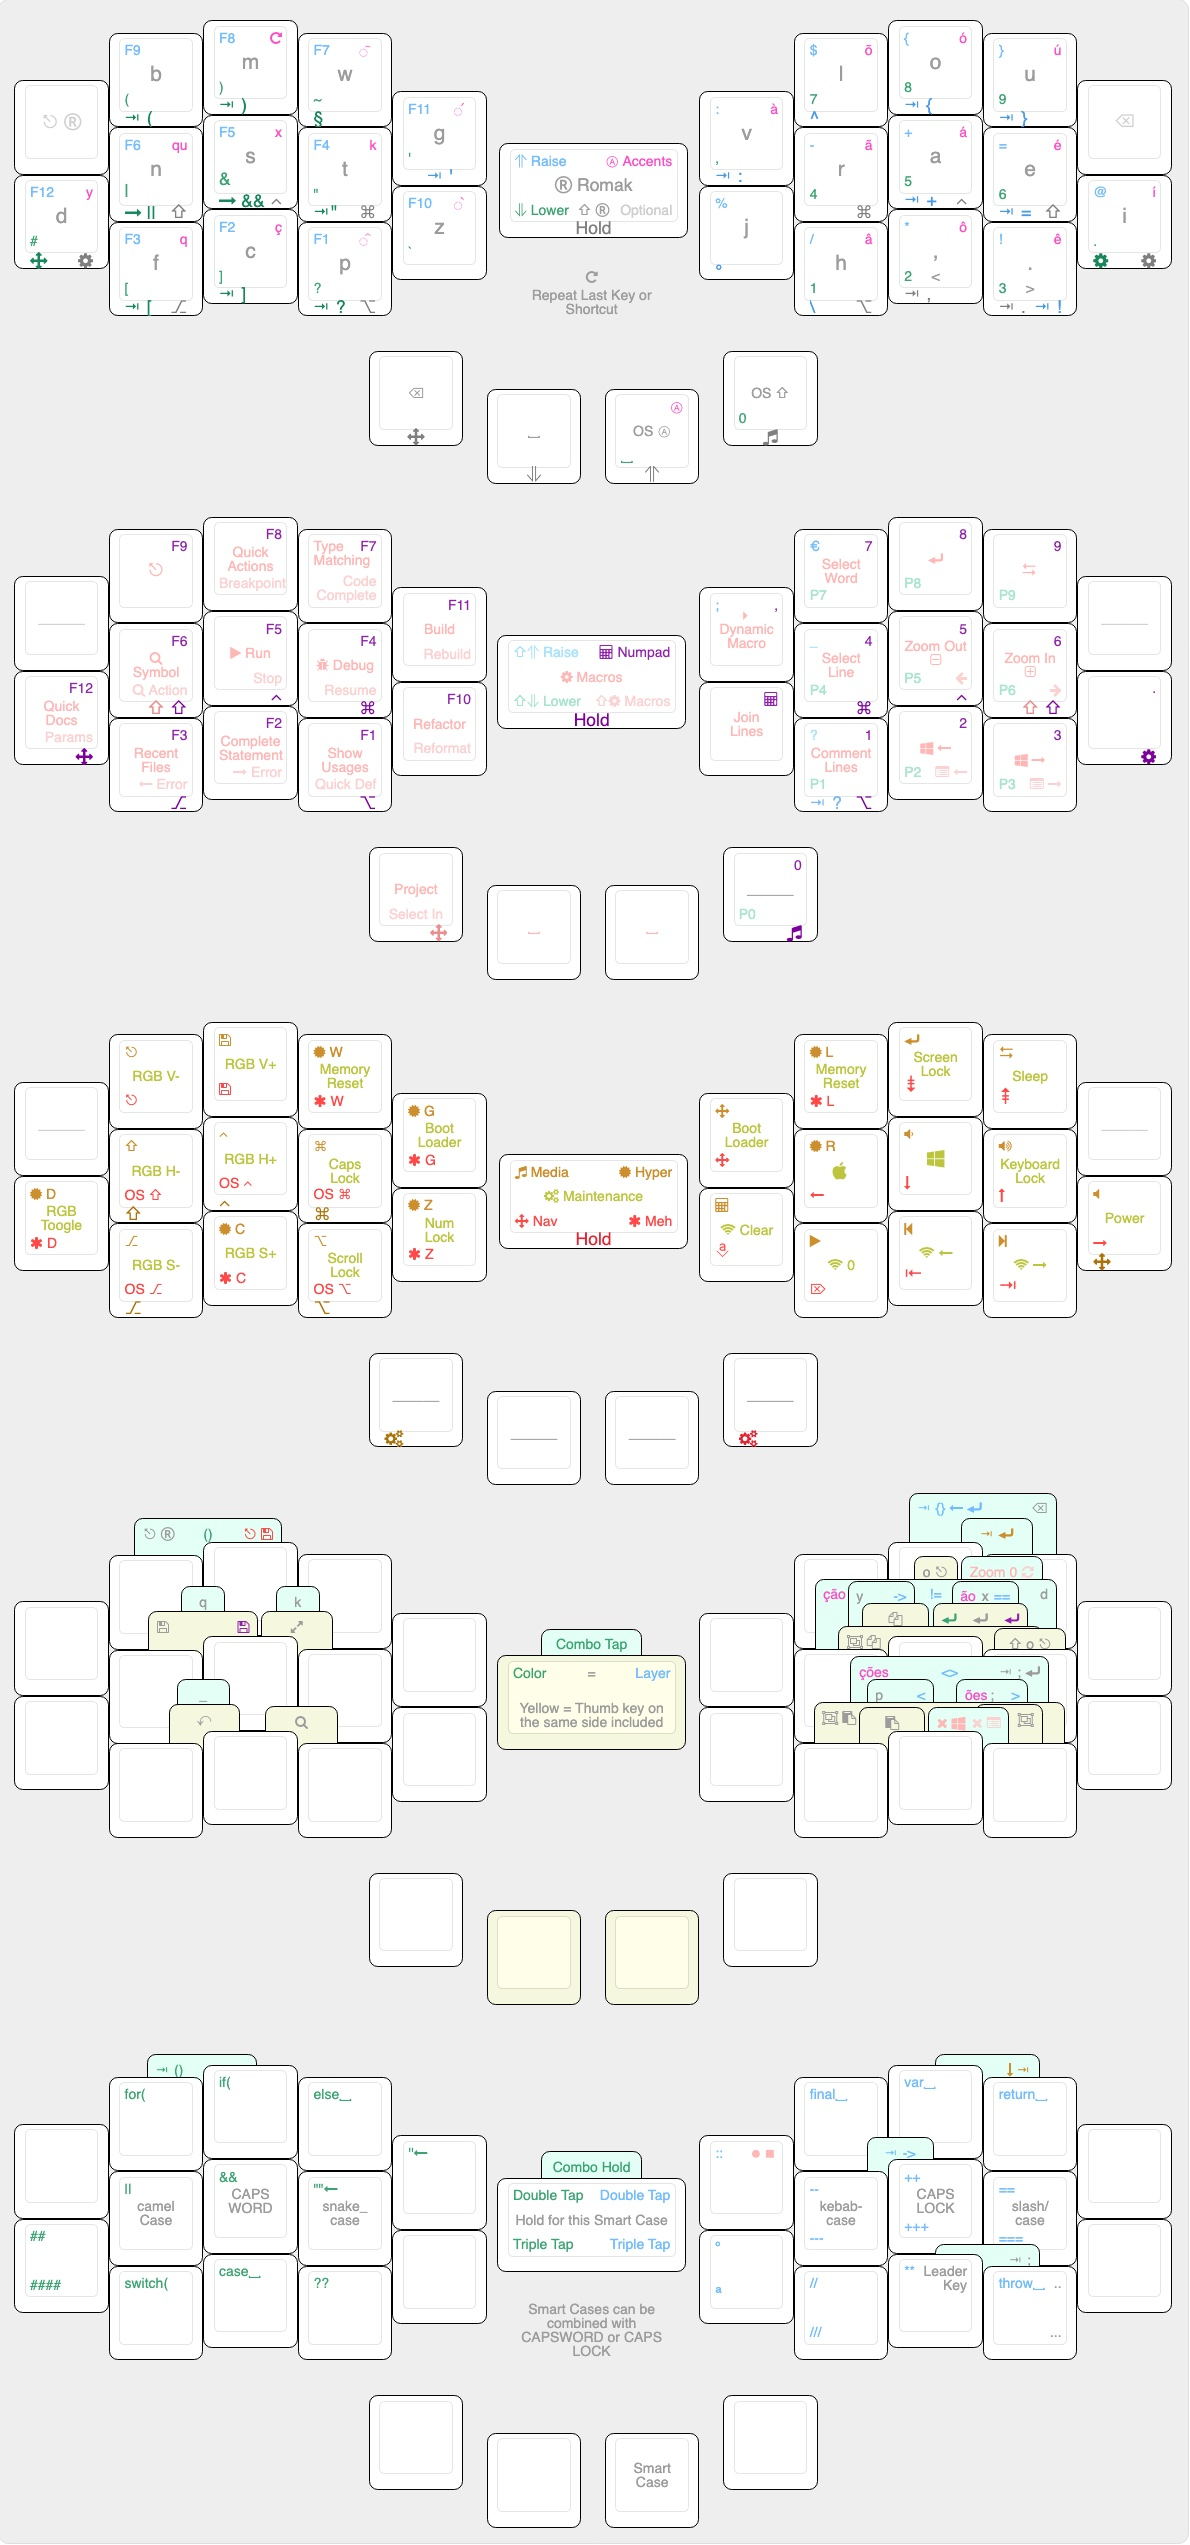
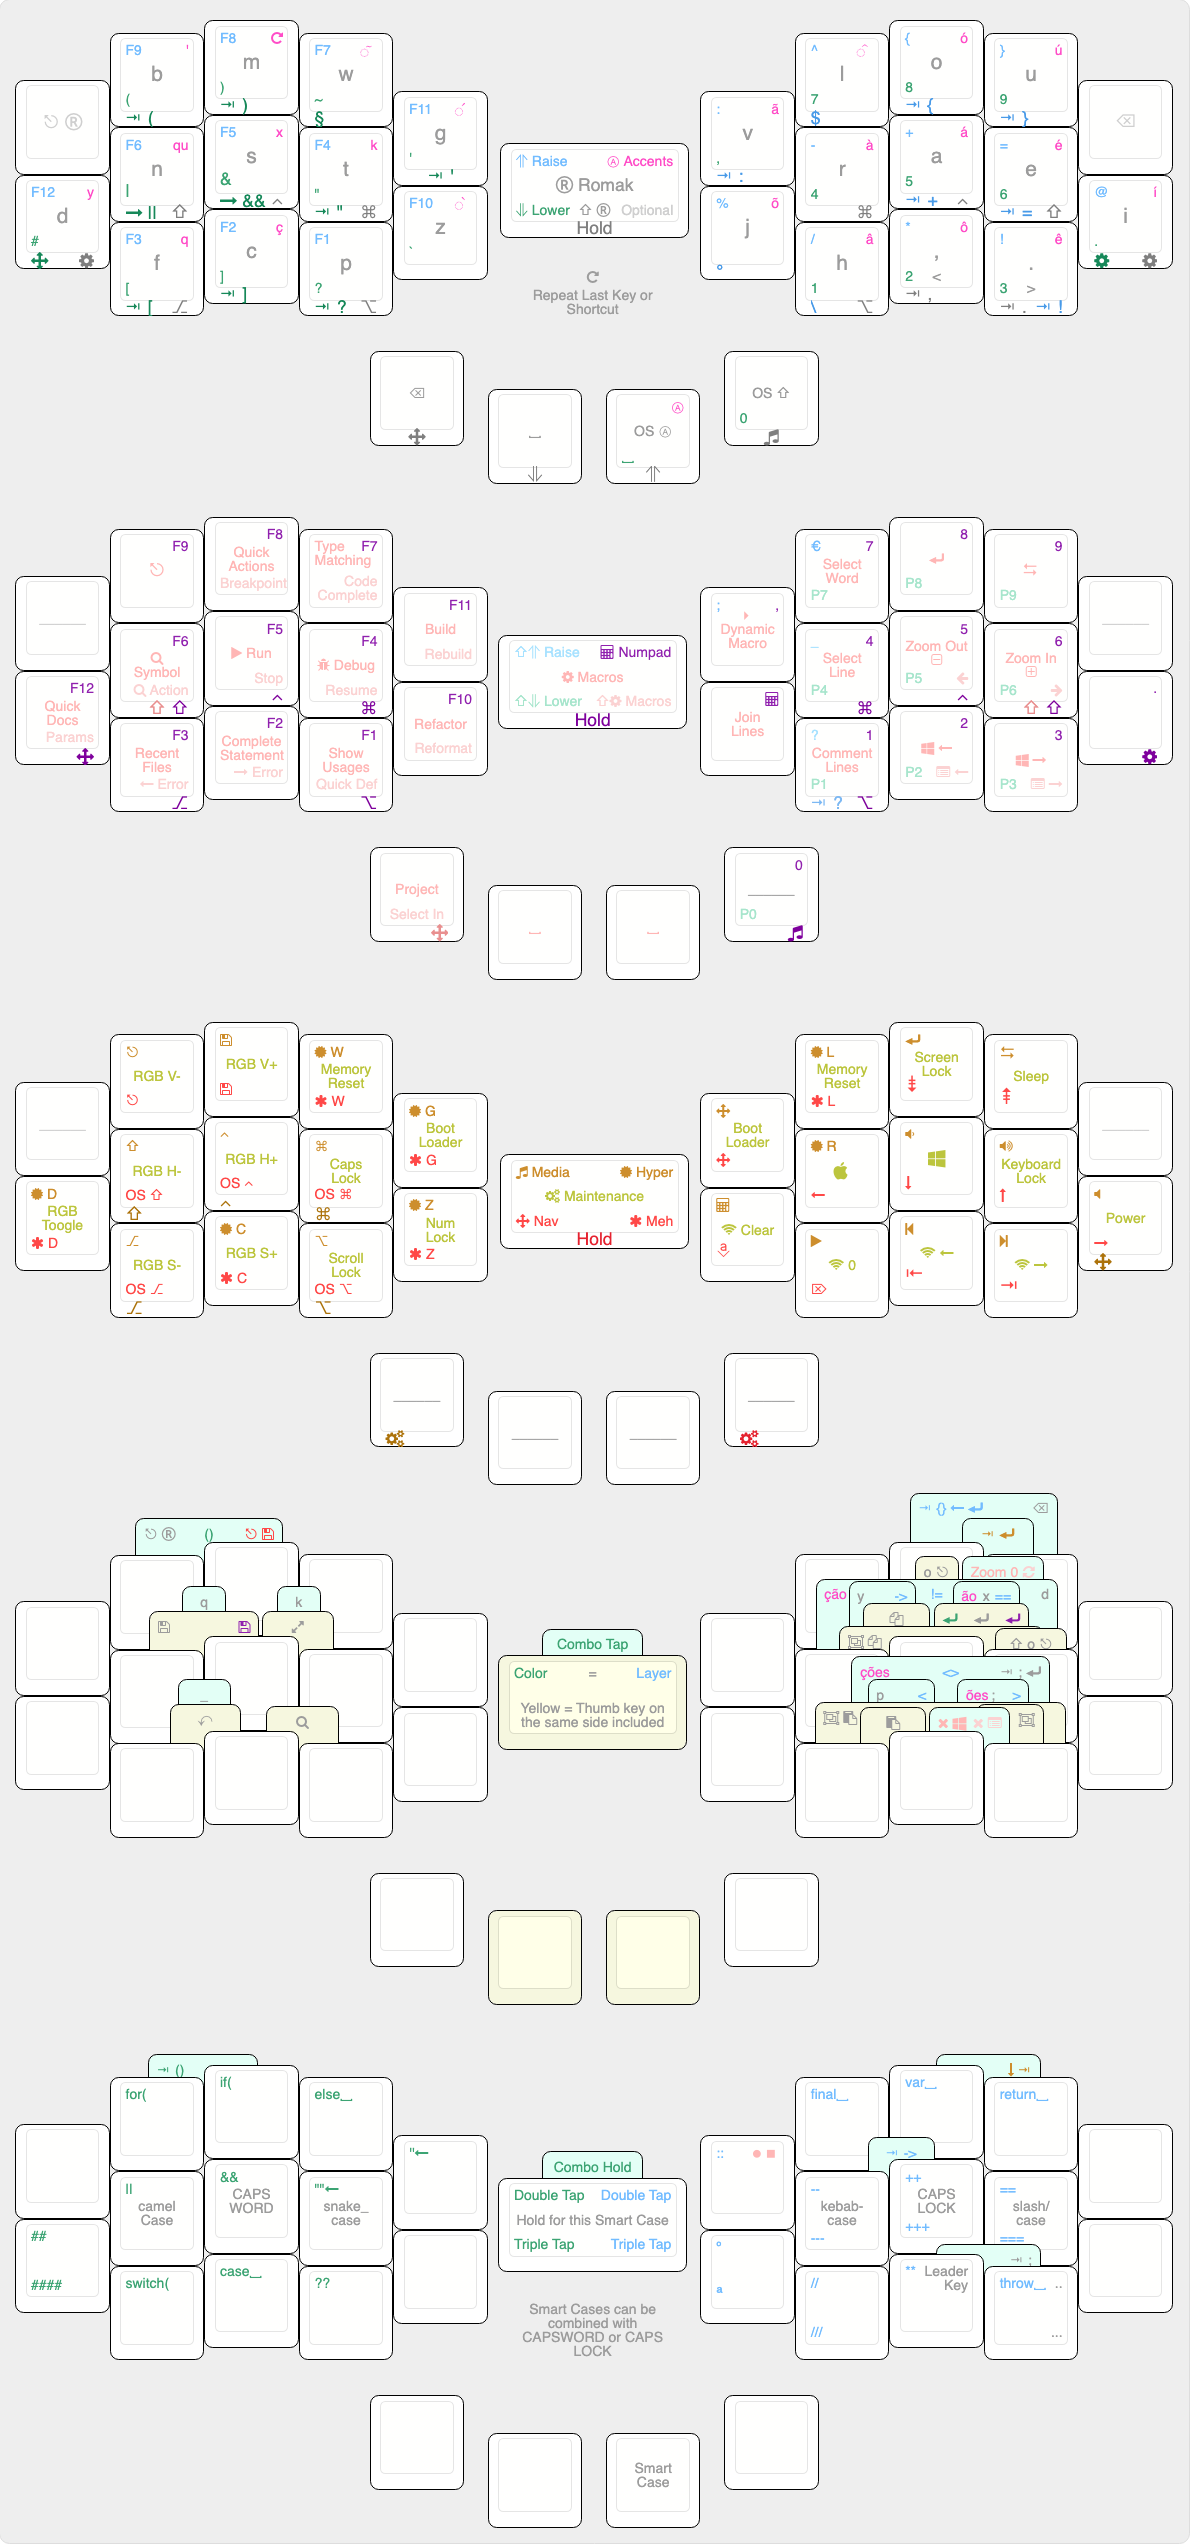
fix keymap

diff --git a/src/qmk/users/rafaelromao/definitions/keymap_blocks.h b/src/qmk/users/rafaelromao/definitions/keymap_blocks.h
@@ -25,14 +25,14 @@
 #define ___________________NUMPAD_R3_________           TG_NUM  , AL_1    , KC_2    , KC_3    
 #define ____NUMPAD_R4____                               RAI_SPC , MED_0
 
-#define ___________________ACCENT_L1_________           _______ , _______ , REPEAT  , KC_TILD
+#define ___________________ACCENT_L1_________           _______ , MC_SQUO , REPEAT  , KC_TILD
 #define ___________________ACCENT_L2___________________ KC_Y    , MC_QU   , KC_X    , KC_K    , KC_QUOT
-#define           _________ACCENT_L3___________________           KC_Q    , MC_SQ_C , KC_CIRC , KC_GRV 
+#define           _________ACCENT_L3___________________           KC_Q    , MC_SQ_C , _______ , KC_GRV 
 #define                               ____ACCENT_L4____                               KC_BSPC , KC_SPC
 
-#define           _________ACCENT_R1___________________           MC_TL_O , MC_SQ_O , MC_SQ_U , _______
-#define ___________________ACCENT_R2___________________ MC_GV_A , MC_TL_A , MC_SQ_A , MC_SQ_E , MC_SQ_I
-#define ___________________ACCENT_R3_________           _______ , MC_CR_A , MC_CR_O , MC_CR_E 
+#define           _________ACCENT_R1___________________           KC_CIRC , MC_SQ_O , MC_SQ_U , _______
+#define ___________________ACCENT_R2___________________ MC_TL_A , MC_GV_A , MC_SQ_A , MC_SQ_E , MC_SQ_I
+#define ___________________ACCENT_R3_________           MC_TL_O , MC_CR_A , MC_CR_O , MC_CR_E 
 #define ____ACCENT_R4____                               RAI_TAC , _______
 
 #define ___________________MACROS_L1_________           _______ , MC_ESC  , MC_QUIK , MC_AUCO 

diff --git a/src/qmk/users/rafaelromao/features/combos.c b/src/qmk/users/rafaelromao/features/combos.c
@@ -39,7 +39,7 @@ const uint16_t PROGMEM r_med_ent_combo[] = {KC_ENT, KC_TAB, COMBO_END};
 
 const uint16_t PROGMEM l_acc_esc_combo[]  = {KC_B, KC_X, COMBO_END};
 const uint16_t PROGMEM r_acc_ao_combo[]   = {MC_SQ_A, MC_SQ_E, COMBO_END};
-const uint16_t PROGMEM r_acc_cao_combo[]  = {MC_TL_A, MC_SQ_A, MC_SQ_E, COMBO_END};
+const uint16_t PROGMEM r_acc_cao_combo[]  = {MC_GV_A, MC_SQ_A, MC_SQ_E, COMBO_END};
 const uint16_t PROGMEM r_acc_oes_combo[]  = {MC_CR_O, MC_CR_E, COMBO_END};
 const uint16_t PROGMEM r_acc_coes_combo[] = {MC_CR_A, MC_CR_O, MC_CR_E, COMBO_END};
 const uint16_t PROGMEM r_acc_bsp_combo[]  = {MC_SQ_O, MC_SQ_U, COMBO_END};

diff --git a/src/qmk/users/rafaelromao/features/tapdance.c b/src/qmk/users/rafaelromao/features/tapdance.c
@@ -133,14 +133,14 @@ void td_currencies(tap_dance_state_t *state, void *user_data) {
     tap_state.state = dance_state(state);
     switch (tap_state.state) {
         case TD_SINGLE_TAP:
-            tap_code16(KC_DLR);
+            tap_code16(KC_CIRC);
+            tap_code(KC_SPC);
             break;
         case TD_DOUBLE_TAP:
             SEND_STRING("final ");
             break;
         case TD_SINGLE_HOLD:
-            tap_code16(KC_CIRC);
-            tap_code(KC_SPC);
+            tap_code16(KC_DLR);
             break;
         default:
             break;

diff --git a/src/qmk/users/rafaelromao/features/macros.c b/src/qmk/users/rafaelromao/features/macros.c
@@ -375,7 +375,7 @@ process_record_result_t process_macros(uint16_t keycode, keyrecord_t *record) {
         return PROCESS_RECORD_CONTINUE;
     }
 
-    if (record != NULL && record->event.pressed) {
+    if (record != NULL && !record->event.pressed) {
         return PROCESS_RECORD_CONTINUE;
     }
 
